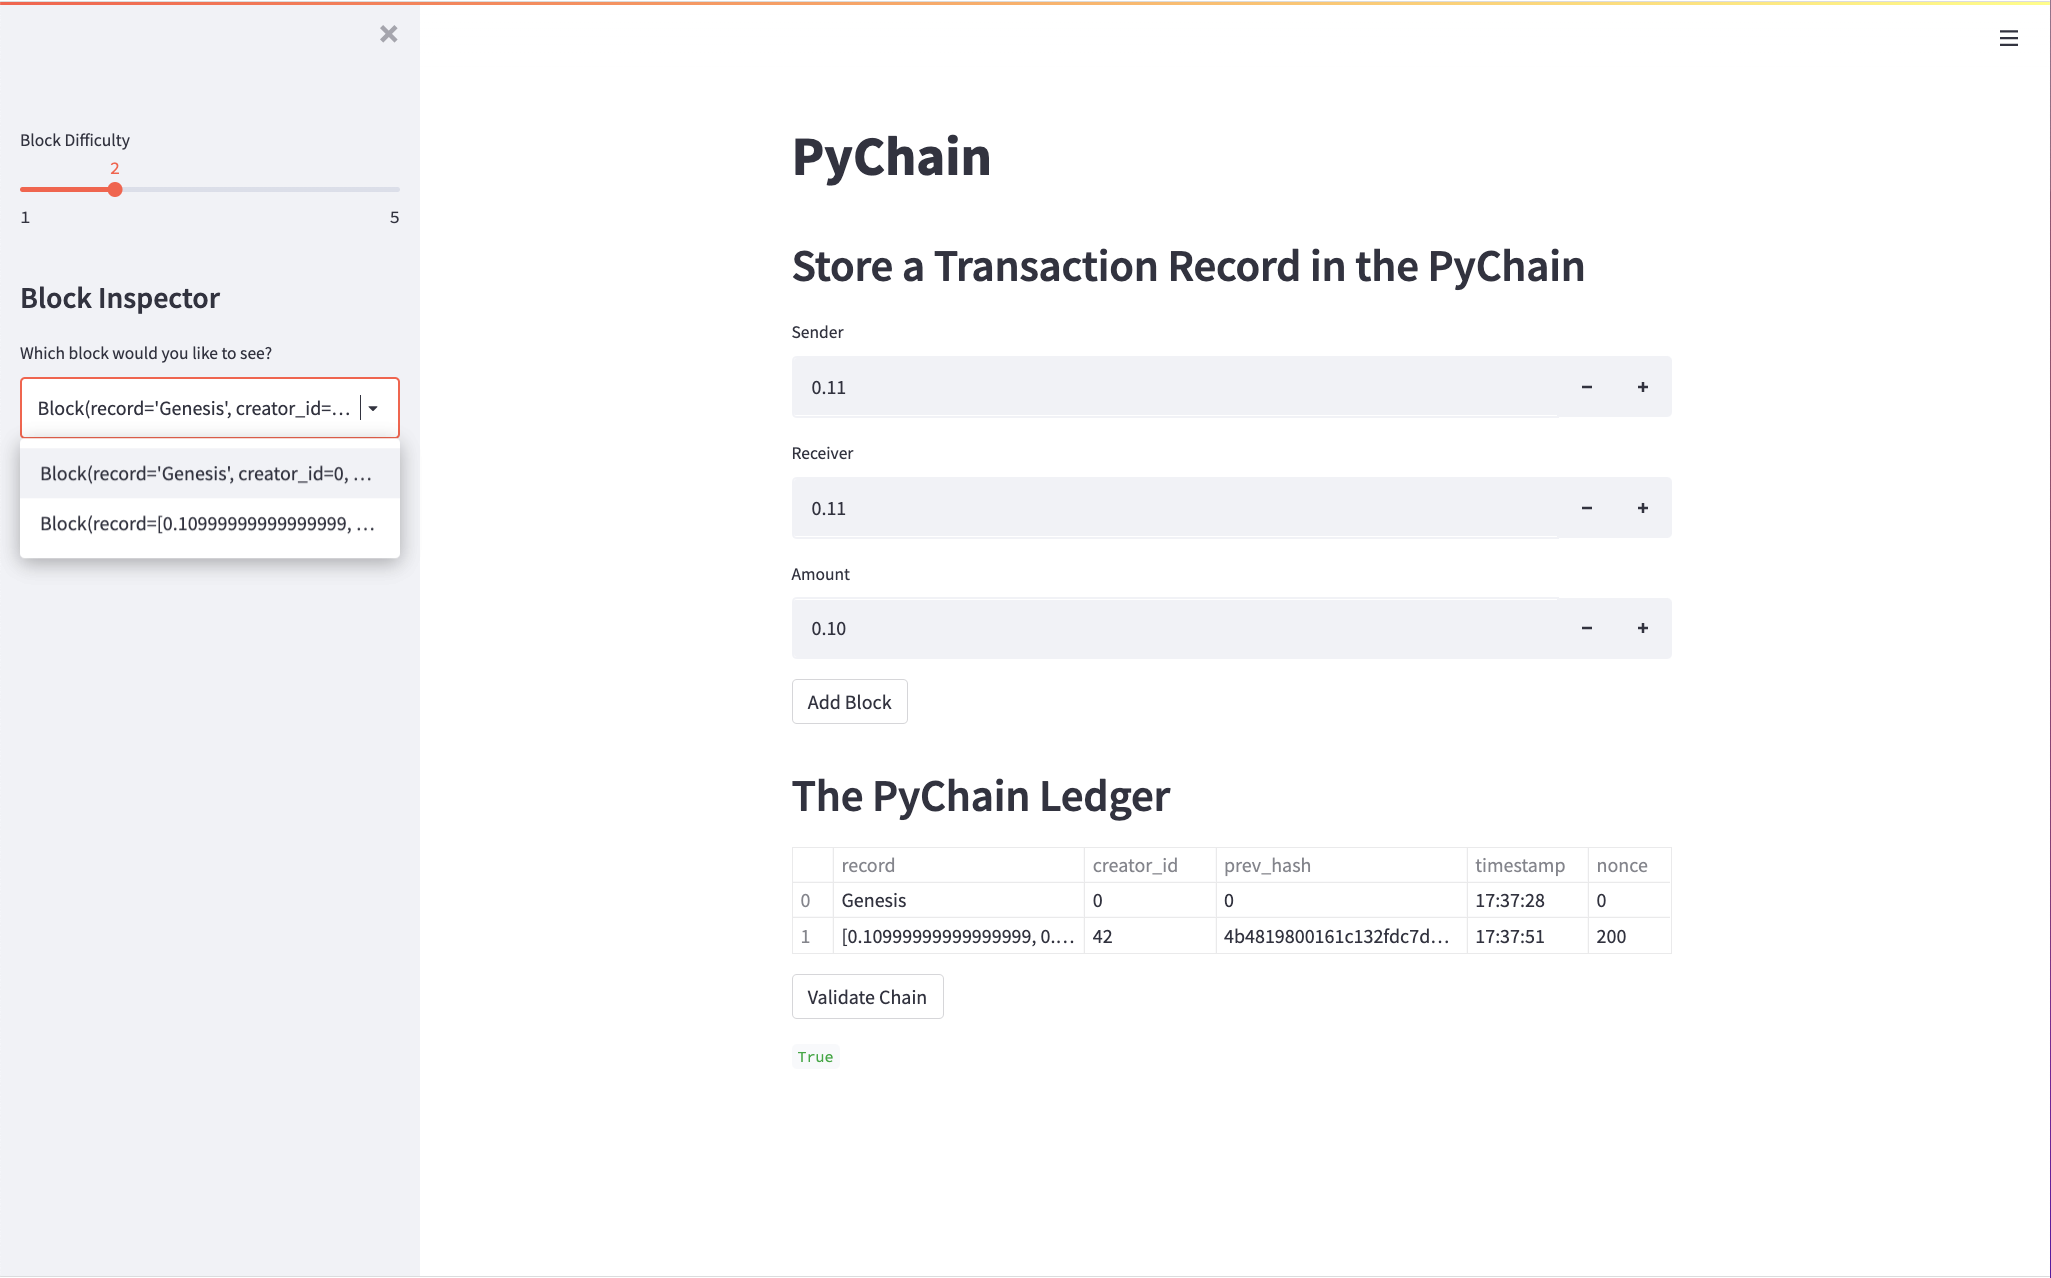
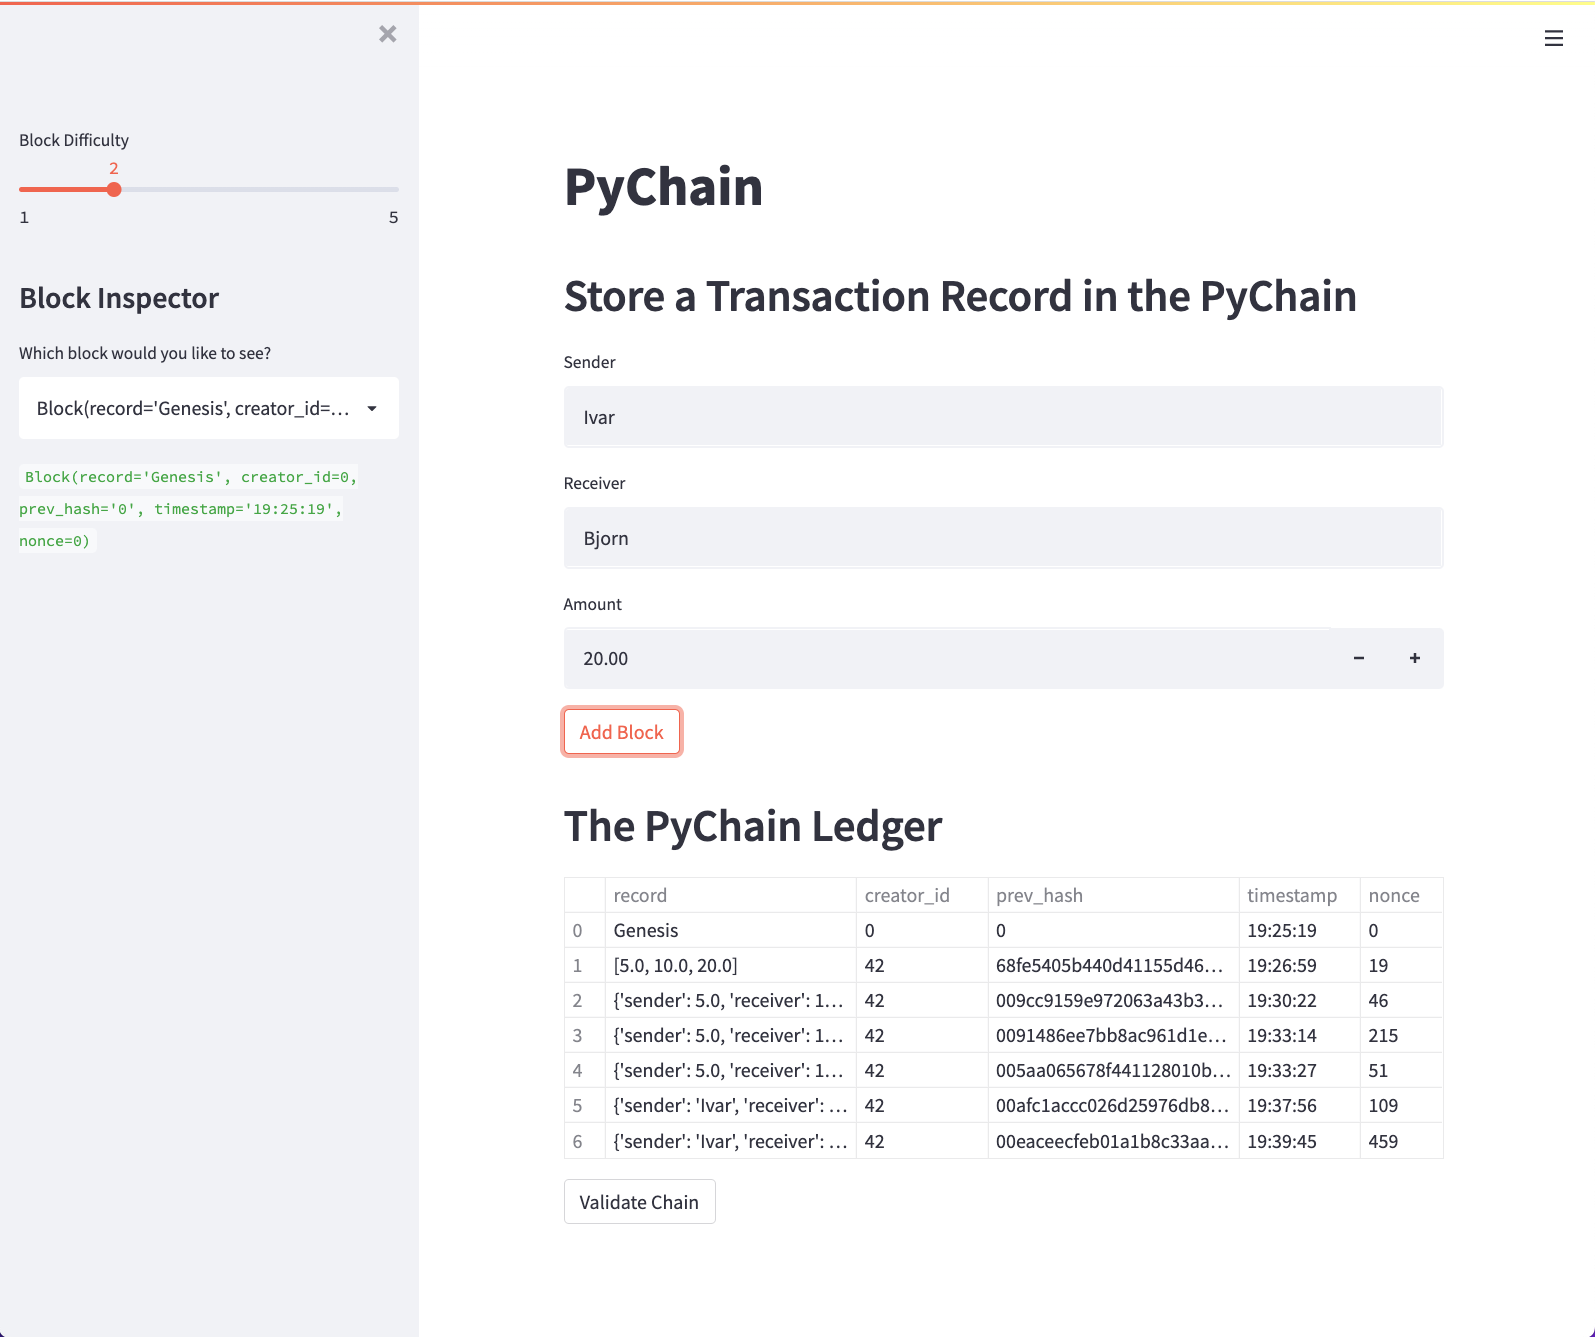
Fixed errors in the pychain code and updated screenshot in ReadMe file.

diff --git a/pychain.py b/pychain.py
@@ -55,7 +55,7 @@ class Record:
 
     sender: str
     receiver: str
-    amount = float
+    amount: float
 
 
 ################################################################################
@@ -175,11 +175,11 @@ pychain = setup()
 
 # @TODO:
 # Add an input area where you can get a value for `sender` from the user.
-input_sender =st.number_input("Sender")
+input_sender =st.text_input("Sender")
 
 # @TODO:
 # Add an input area where you can get a value for `receiver` from the user.
-input_receiver =st.number_input("Receiver")
+input_receiver =st.text_input("Receiver")
 
 # @TODO:
 # Add an input area where you can get a value for `amount` from the user.
@@ -194,7 +194,7 @@ if st.button("Add Block"):
     # which is set equal to a `Record` that contains the `sender`, `receiver`,
     # and `amount` values
     new_block = Block(
-        record=[input_sender, input_receiver, input_amount],
+        record = Record(input_sender, input_receiver, input_amount),
         creator_id=42,
         prev_hash=prev_block_hash
     )
